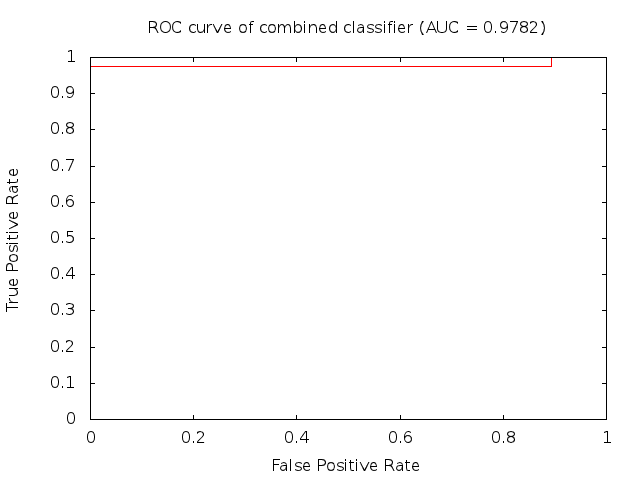
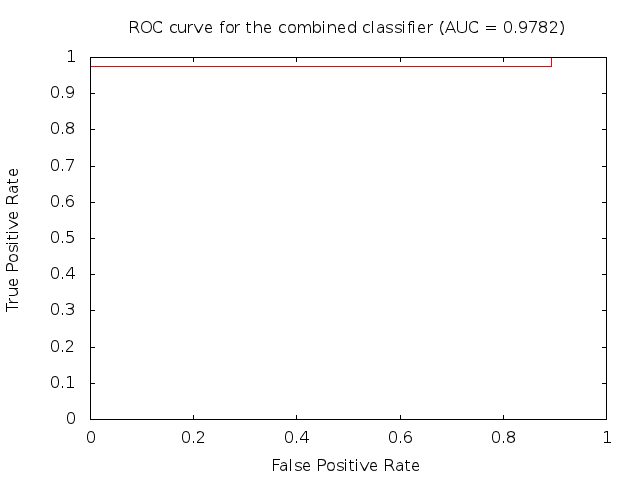
informe

Changed region(s): [[0.1875, 0.0312, 0.875, 0.0938]]

diff --git a/baravalle.tex b/baravalle.tex
@@ -278,7 +278,7 @@ An unsupervised SOM of the fractal and non fractal representation of scanned ima
 \subsection{Classification}
 {\em Support Vector Machines} (SVM)~(\cite{Boser92}) were used to perform the classification, using the {\em libsvm}~(\cite{Chang2011}) implementation.
 %\subsection{Scanned Images}
-The method of {\em k-fold cross validation} was employed in order to validate the results with $k = 4$, {\em i.e.}, $75\%$ of samples are used as training and $25\%$ as testing (then switching the training and testing samples). Table \ref{table:tableFirstTest} shows classification results for both methods of classification and also for the combined features classifier ({\em i.e.}, a feature vector comprising fractal and color features), using $50$ scanned images of each type ({\em i.e.} $250$ images, including $50$ of non bread images, scaled to the size of the bread images, to avoid using images of different size). It can be seen that the use of non-fractal features in the images gives comparable results to that of using fractal features.
+The method of {\em k-fold cross validation} was employed in order to validate the results with $k = 4$, {\em i.e.}, $75\%$ of samples are used as training and $25\%$ as testing (then switching the training and testing samples). Table \ref{table:tableFirstTest} shows classification results for both methods of classification and also for the combined features classifier ({\em i.e.}, employing a feature vector comprising fractal and colour features), using $50$ scanned images of each type ({\em i.e.} $250$ images, including $50$ of non bread images, scaled to the size of bread images). It can be seen that the use of non-fractal features in the images gives comparable results to that of using fractal features.
 
 \begin{table}[htb]
 \centering
@@ -295,7 +295,7 @@ The method of {\em k-fold cross validation} was employed in order to validate th
 \label{table:tableFirstTest}
 \end{table}
 
-We also received bread images from a different bread type, from the database employed in \cite{Gonzales2008}. They were digitalised both using a scanner and using a digital camera. From this database, we added one class to the classification in order to obtain $300$ images, employing $50$ digitalised images using the scanner, with the same spatial resolution of our images. The images were received in grey scale, {\em i.e.}, only the fractal features could be considered. The performance of the classifier for the fractal features was mantained, with an accuracy of $94.3\%$. In Fig. \ref{fig:gonzales}, two images of this bread type, digitalised using a scanner (left) and using a digital camera (right) are shown.
+We also received bread images of a different bread type, from the database employed in \cite{Gonzales2008}. They were digitalised both using a scanner and using a digital camera. From this database, we added one class to the classification in order to obtain $300$ images, employing $50$ digitalised images from the scanner, with the same spatial resolution of the other bread images. The images were received in grey scale, {\em i.e.}, only the fractal features could be considered. The performance of the classifier for the fractal features was maintained, with an accuracy of $94.3\%$. In Fig. \ref{fig:gonzales}, two images of this bread type, digitalised using a scanner (left) and using a digital camera (right) are shown.
 
 \begin{figure*}[htb]
 \centering
@@ -308,12 +308,12 @@ We also received bread images from a different bread type, from the database emp
 \subsection{Robustness Tests}
 In order to test for the robustness of the method, two tests were performed. 
 
-\subsubsection{Classification Using Both Capturing Methods}
-Table \ref{table:tableRobustnessTest1} shows classification results for the three methods of classification, training a classifier with $20$ scanned images and $20$ camera images of each bread type ({\em i.e.} $200$ images, including $40$ samples of non bread images). Results show that the accuracy descends approximately $7\%$ for the fractal features. It can also be seen that the accuracy of the non fractal features descends more than the fractal ones.
+\subsubsection{Classification with Different Capturing Methods}
+Table \ref{table:tableRobustnessTest1} shows classification results for the three methods of classification, training a classifier with $20$ scanned images and $20$ camera images of each bread type ({\em i.e.} $200$ images, including $40$ samples of non bread images). Results show that the accuracy descends approximately $7\%$ for the fractal features. In addition, the accuracy of the non fractal features descends more than the fractal ones. The combined method shows the better performance of the three classifiers, and a similar accuracy decrease to the fractal features.
 
-In Figs. \ref{fig:roc}, \ref{fig:rocNF}, \ref{fig:rocCombined} the ROC curves for the three classifiers (considering them as bread - non bread classifiers) show that the fractal features have a higher {\em Area Under Curve} (AUC), {\em i.e.}, it shows a better performance in the discrimination of bread images from non bread ones.
+In Figs. \ref{fig:roc}, \ref{fig:rocNF}, \ref{fig:rocCombined} the {\em Receiver Operating Characteristic} (ROC) curves for the three classifiers (considering them as bread - non bread classifiers) show that the fractal features have the highest {\em Area Under Curve} (AUC), {\em i.e.}, it shows the best performance in the discrimination of bread images from non bread ones.
 
-We also included the received images in the classifier, {\em i.e.}, $20$ images from the scanner and $20$ images from the camera. The obtained accuracy ($87.0833\%$) shows that the performance is mantained.
+We also included the received images in the classifier, {\em i.e.}, $20$ images from the scanner and $20$ images from the camera. The obtained accuracy for the fractal features ($87.0833\%$) shows that the performance is maintained.
 
 \begin{table}[htb]
 \centering
@@ -333,7 +333,7 @@ We also included the received images in the classifier, {\em i.e.}, $20$ images 
 \begin{figure*}
 
 \begin{centering}
-\subfloat[Fractal features ROC]{\begin{centering}
+\subfloat[ROC using fractal features]{\begin{centering}
 \includegraphics[width=0.6\textwidth]{exps/ROC/fractalClassifier}
 \label{fig:roc}
 \par\end{centering}
@@ -360,8 +360,8 @@ We also included the received images in the classifier, {\em i.e.}, $20$ images 
 
 \end{figure*}
 
-\subsubsection{Changes in Illumination Conditions}
-The second test consists of $20$ scanned images from each class, and $20$ from the CalTech101 dataset, which were used for training, and all the images from the digital camera ($20$ per class), and $20$ non bread images were used for testing ($100$ images for training and $100$ images for testing). In Table \ref{table:tableRobustnessTest2} accuracy results of both methods are shown. Results shows poor performance of the classifiers. In Tables \ref{table:ConfusionMatrixFractal} and \ref{table:ConfusionMatrixNonFractal}, the confusion matrix of the data using the three methods is shown. It can be seen that the RGB method assigns all the data to the non bread class, while the fractal and combined features methods are able to discriminate between bread and non bread images, making them good discriminators of non bread images.
+\subsubsection{Classification when Training with Only One Capturing Method}
+The second test consists of $20$ scanned images from each class, and $20$ from the CalTech101 dataset, which were used for training, and all the images from the digital camera ($20$ per class), and $20$ non bread images were used for testing ($100$ images for training and $100$ images for testing). In Table \ref{table:tableRobustnessTest2} accuracy results of the three methods are shown. Results shows poor performance of the classifiers. In Tables \ref{table:ConfusionMatrixFractal}, \ref{table:ConfusionMatrixNonFractal} and \ref{table:ConfusionMatrixCombined}, the confusion matrix of the data using the three methods is shown. It can be seen that the RGB method assigns all the data to the non bread class, while the fractal and the combined features methods are able to discriminate between bread and non bread images, making them good discriminators of non bread images.
 
 \begin{table}[htb]
 \centering
@@ -374,7 +374,7 @@ The second test consists of $20$ scanned images from each class, and $20$ from t
 %    Accuracy  & $\textbf{40}\%$ & $20\%$ & $39\%$\\
     \hline
 \end{tabular}
-\caption{Results for the robustness test}
+\caption{Results obtained when training with a capturing condition and testing with a different one}
 \label{table:tableRobustnessTest2}
 \end{table}
 
@@ -423,7 +423,7 @@ The second test consists of $20$ scanned images from each class, and $20$ from t
 \label{table:ConfusionMatrixNonFractal}
 \end{table}
 
-\begin{table}[htb]
+\begin{table}[ht!b]
 \centering
 \begin{tabular}{|c|c|c|c|c|c|}
     \hline
@@ -470,12 +470,12 @@ It is possible to mislead the classifiers with false images. Fig.~\ref{fig:fakeR
 %\todo{Add PCA float table in a minipage next to the table1}
 
 \section{Conclusions and Future Work}
-The use of fractal and multifractal features in bread crumb texture classification showed good performance. The multifractal spectrum demonstrated to be accurate enough to perform a classification of different bread types and also to discriminate non bread from bread images. The use of non-fractal features such as colour, also showed comparable results, but it fails to detect non bread images, and it is easy to deceive it with false images. Both methods showed to be sensitive to illumination changes, making the methods still non robust. Preliminary tests on our particle system~(\cite{Baravalle2011}) show that it could deceive the fractal classifier, so further analysis is required in order to find the parameters that produce textures with similar fractal and multifractal features to those of real breads.
+The use of fractal and multifractal features in bread crumb texture classification showed good performance. The multifractal spectrum demonstrated to be accurate enough to perform a classification of different bread types and also to discriminate non bread from bread images. The use of non-fractal features such as colour, also showed comparable results, but it fails to detect non bread images, and it is easy to deceive it with false images. The combination of both classifiers showed similar results to those obtained using the fractal features, so the use of the latter alone is preferred. The three methods showed to be sensitive to illumination changes, making the methods still non robust. Preliminary tests on our particle system~(\cite{Baravalle2011}) show that it could deceive the fractal classifier, so further analysis is required in order to find the parameters that produce textures with similar fractal and multifractal features to those of real breads.
 
 The results found can be applied to validate synthetic samples, {\em i.e.}, the latter should have similar features to the bread type that is trying to simulate. The features obtained will be used to determine particle system parameters ({\em e.g.}, lifetime of particles, colour). These results can be extended to be used as quality parameters for these products. The robustness of the method needs to be enhanced. Other FDs will be studied in order to accomplish this goal. Also, the code of the multifractal spectrum algorithm needs to be optimized in order to obtain a faster algorithm for bread classification. It will be useful to apply a Principal Component Analysis in order to identify the key variables in the feature vectors. 
 
 \section{Acknowledgements}
-We would like to thank Gustavo Grieco and Pablo Speciale for technical discussions and for their support in the development of the present work. We would also like to thank Dra. Ursula Gonzales-Barron for the images received.
+We would like to thank Gustavo Grieco and Pablo Speciale for technical discussions and for their support in the development of the present work. We would also like to thank Dra. Ursula Gonzales-Barron for the received images.
 
 %
 \bibliography{bibliografia/amcapaper}
